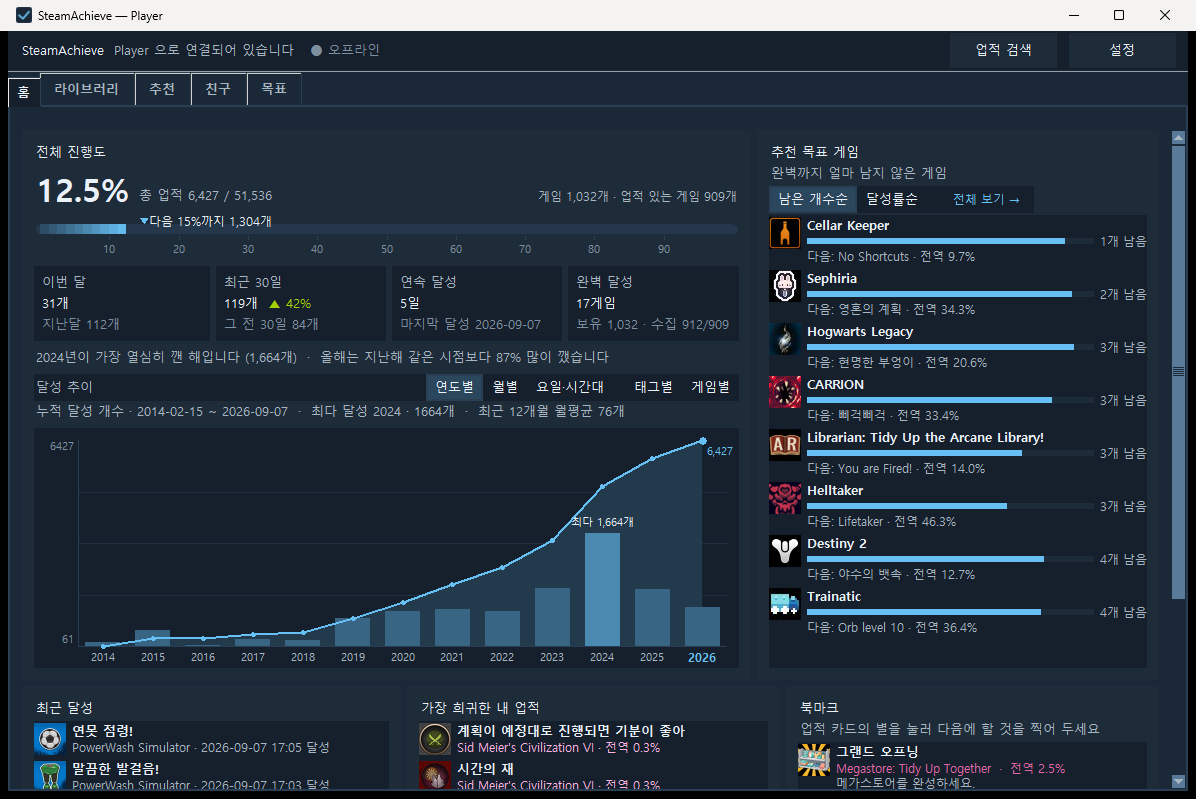
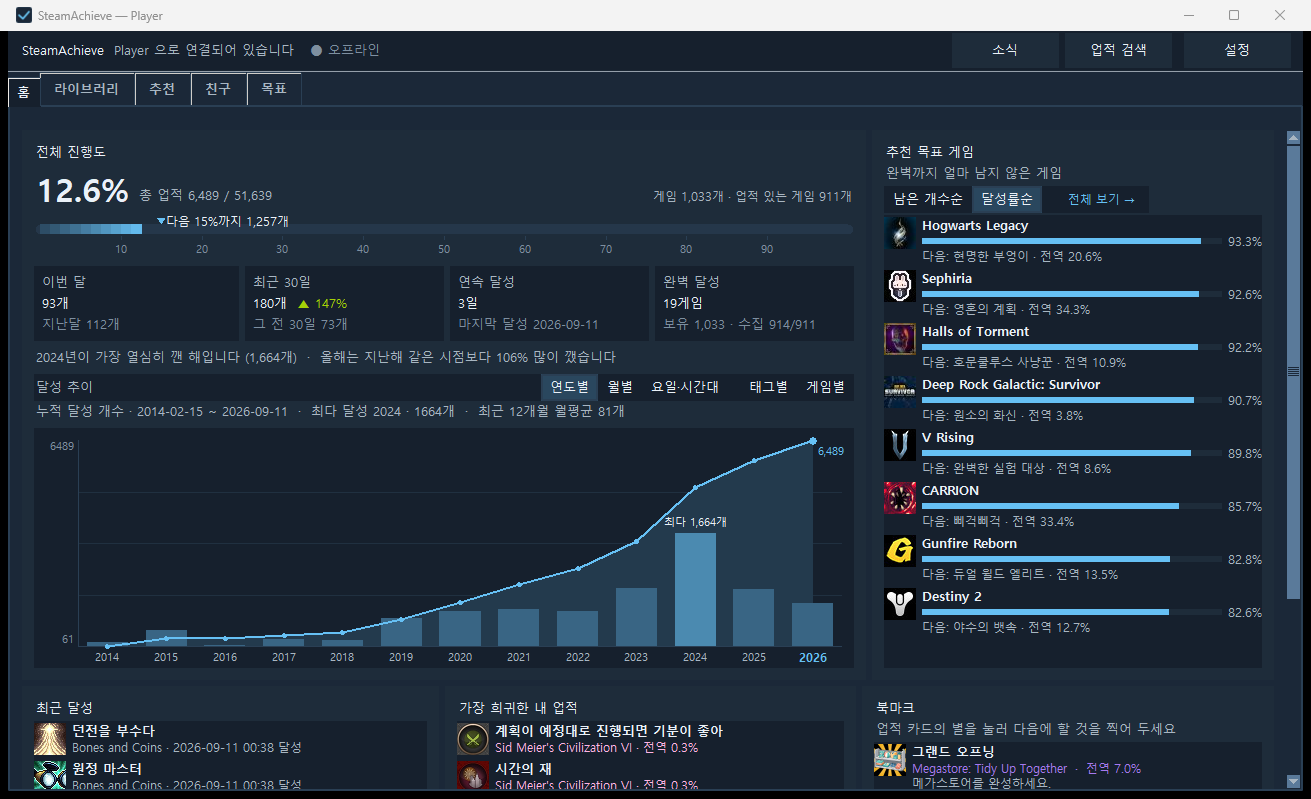
docs: v0.5.11 배포 문서

diff --git a/CHANGELOG.md b/CHANGELOG.md
@@ -2,6 +2,18 @@
 
 형식은 [Keep a Changelog](https://keepachangelog.com/ko/1.1.0/) 를 따르고, 버전은 [SemVer](https://semver.org/lang/ko/) 입니다.
 
+## [0.5.11] - 2026-09-11 — 업적 추가 알림 · 소식함
+
+### 추가
+- **올클리어한 게임에 업적이 추가되면 알려 줍니다.** 개발사가 업데이트로 업적을 늘리면 지금까지는 완벽 달성에서 조용히 빠질 뿐이라 알 방법이 없었습니다(사용자 지적). 이제 세 곳에서 보입니다.
+  - **토스트** — 감지한 순간 게임 이름과 새 업적 이름을 띄웁니다. 완벽 달성이던 게임이면 제목이 "완벽 달성이 깨졌습니다"로 바뀌고 호박색이 됩니다. 클릭하면 그 게임으로 갑니다.
+  - **추천 목표 게임 · 목표 탭** — 업적이 늘면 그 게임이 저절로 이 목록에 올라오는데, 다른 미완성 게임과 구분이 안 됐습니다. 이제 게임 이름 옆에 "새 업적" 표식이 붙습니다(목표 탭은 행 전체가 호박색).
+  - **업적 카드** — 새로 생긴 업적에 "추가됨" 배지가 붙고, 그 게임의 업적 화면을 한 번 열면 사라집니다. 방금 깬 업적의 "NEW" 와 색·문구를 다르게 해 섞이지 않습니다.
+- **소식함**이 생겼습니다. 표식이 게임마다 흩어져 있으면 라이브러리가 1,000개인 분은 게임을 하나하나 열어 봐야 소식을 압니다(사용자 지적). 이제 헤더 오른쪽 **[소식 N]** 버튼에 안 읽은 개수가 뜨고, 누르면 한 창에서 전부 훑을 수 있습니다.
+  - 새로 생긴 업적(호박)과 새로 깬 업적(초록)을 **색과 글자 둘 다로** 가릅니다.
+  - 줄을 더블클릭하면 그 게임이 열리고 그 게임 몫은 읽음 처리됩니다. **[모두 읽음]** 으로 한 번에 지울 수도 있습니다.
+- 알림은 **보유한 모든 게임**에 대해 뜹니다. 스토어 정보만 바뀐 게임은 업적 수가 그대로라 알림이 나가지 않습니다.
+
 ## [0.5.10] - 2026-09-09 — 달성 반영 지연 단축
 
 ### 수정

diff --git a/PRIVACY.md b/PRIVACY.md
@@ -1,6 +1,6 @@
 # SteamAchieve 개인정보 안내 · Privacy Notice
 
-버전 1.1 · 2026-09-09 · 앱 버전 0.5.10 기준
+버전 1.1 · 2026-09-09 · 앱 버전 0.5.11 기준
 
 ## 한국어
 
